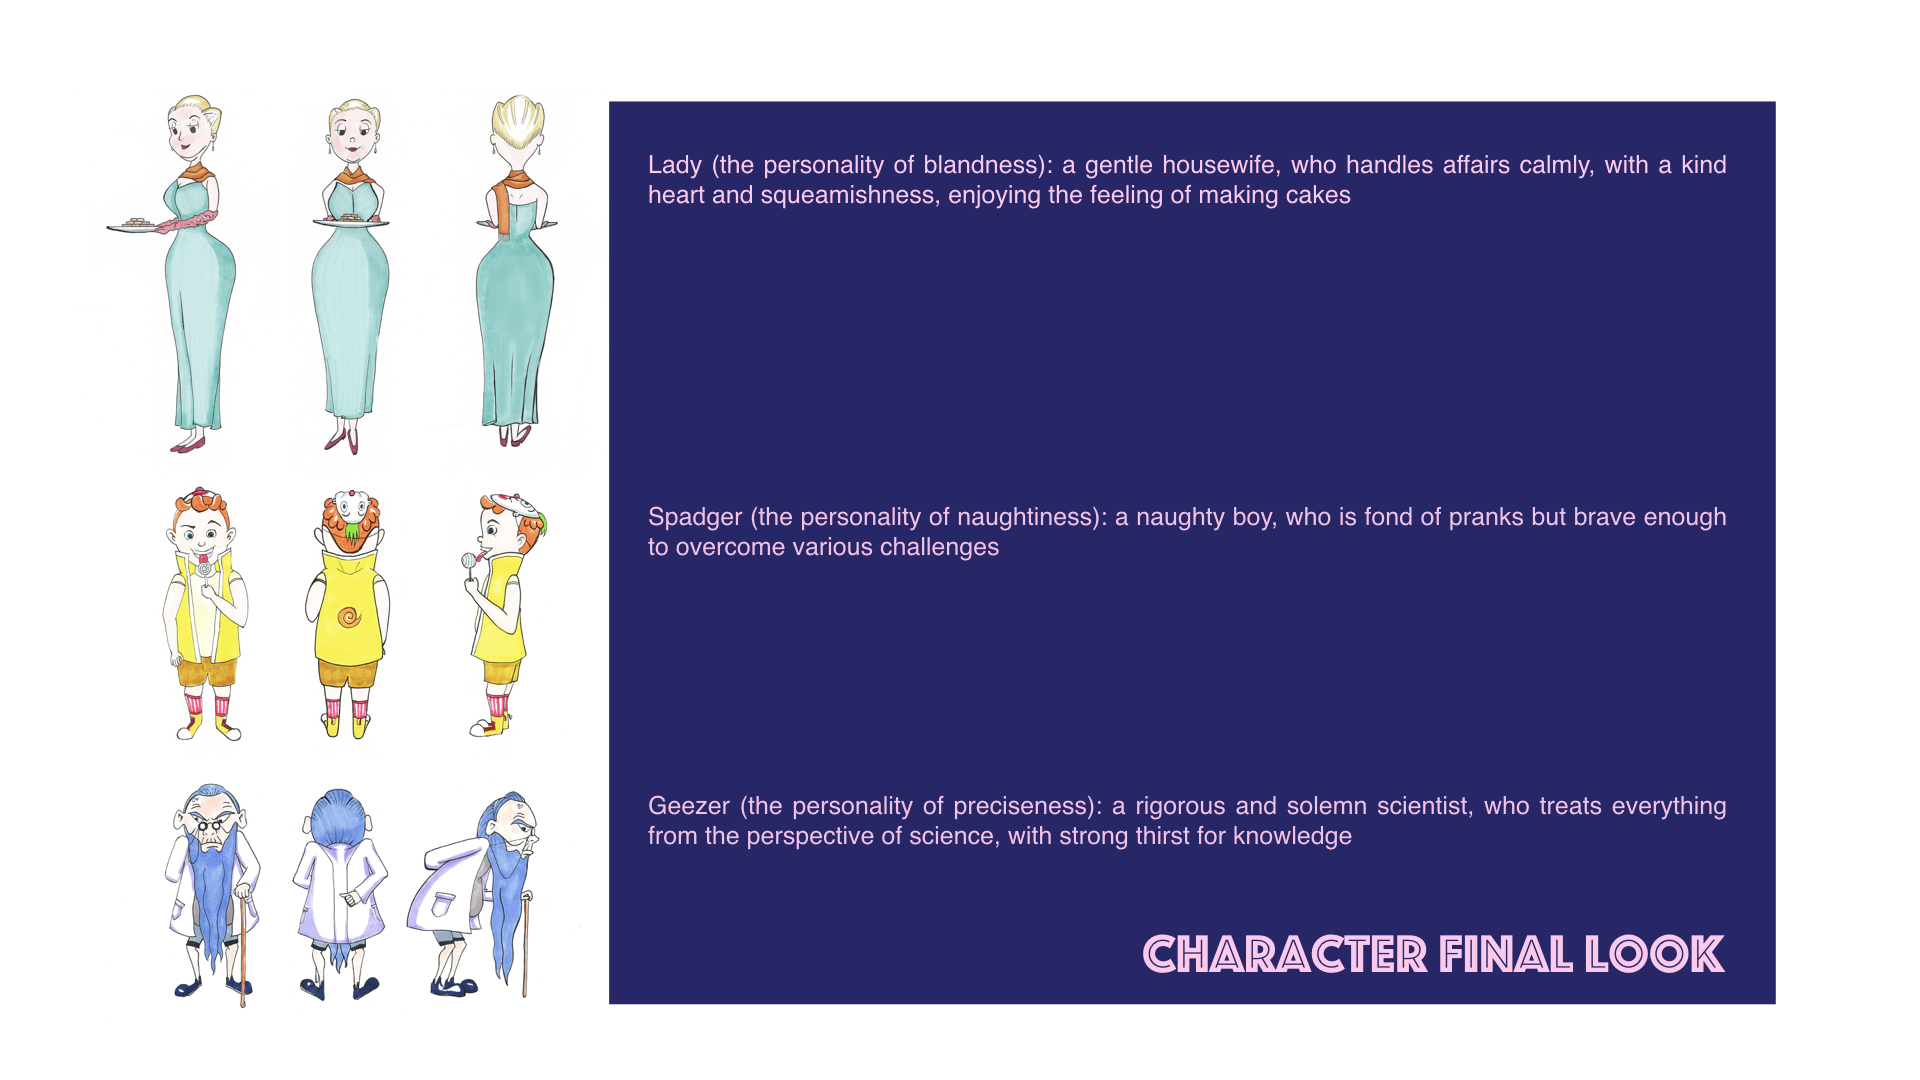
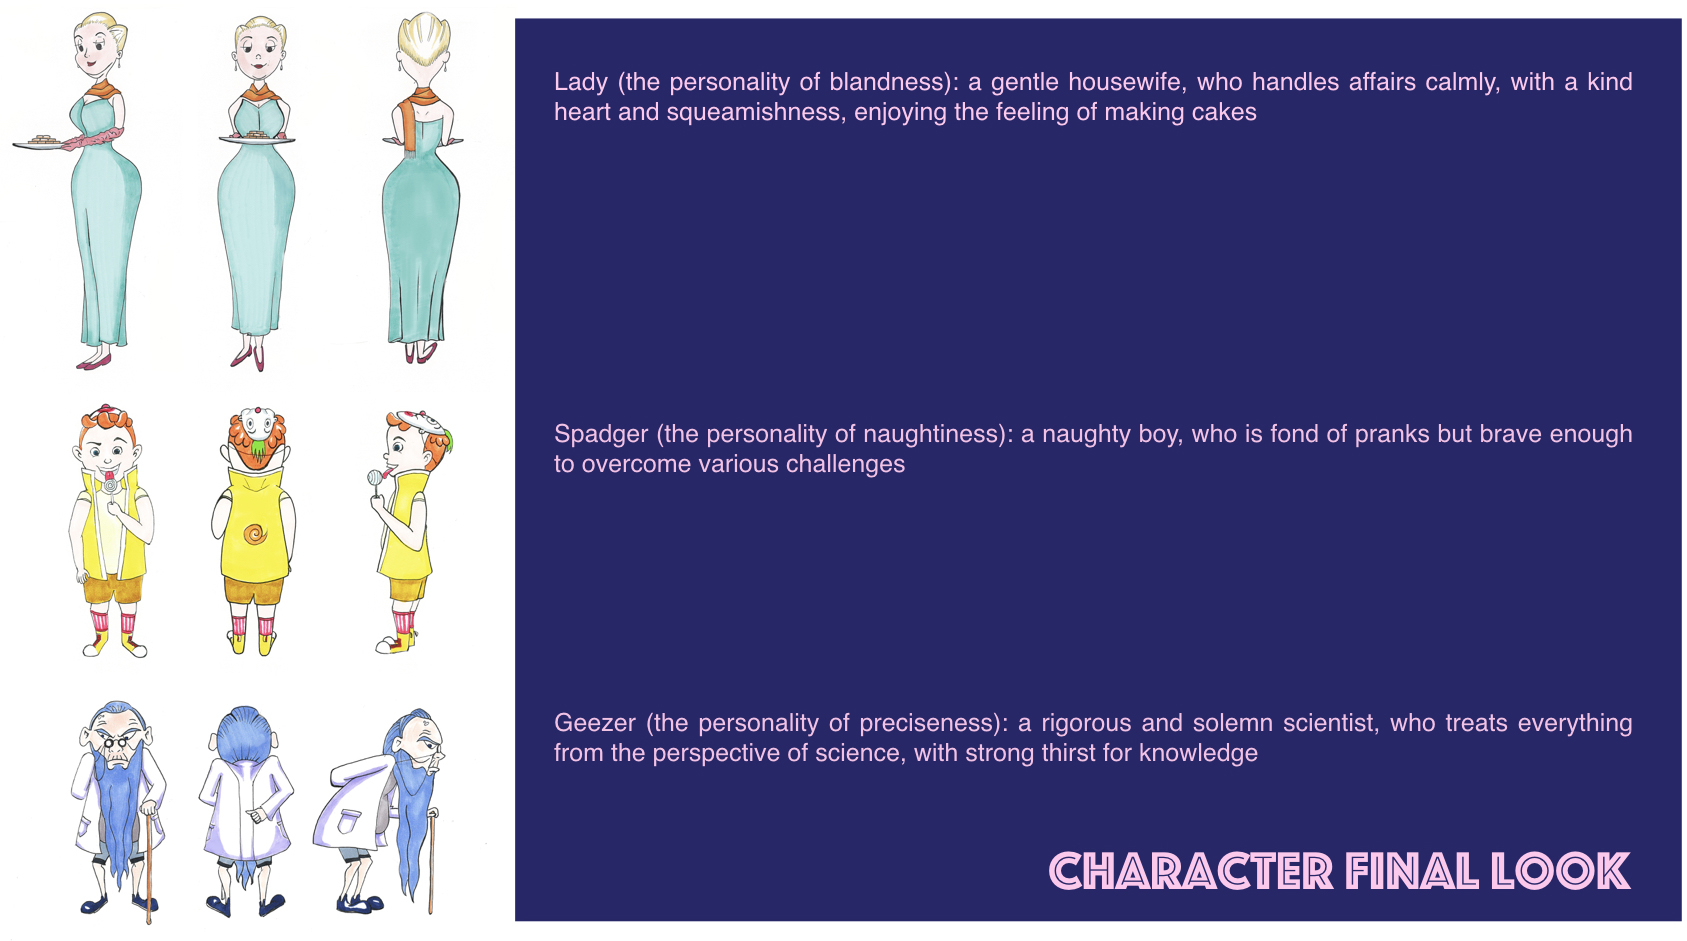
Add key words and subtitle. Change margin and spacing

diff --git a/home/setforstrangers.html b/home/setforstrangers.html
@@ -33,6 +33,7 @@
         <div id="main">
             <div class="inner">
                 <h1>Set for Strangers in Times Square</h1>
+                <h2>KEY WORDS: &nbspVibe, Preference, Installation</h2>
                 <div class="row gtr-uniform">
                     <div class="col-6"><span class="image fit"><img src="images/setforstrangers/post1.png" alt="" /></span></div>
                     <div class="col-6"><span class="image fit"><img src="images/setforstrangers/post2.png" alt="" /></span></div>
@@ -43,10 +44,10 @@
                 <div class="col-12" style="text-align: center;">
                     <h1>Which one do you prefer?</h1>
                 </div>
-                <h2>Design Statement</h2>
-                <p>Why do people come to Times Square?<br> Do they prefer a crowded or an uncrowded Times Square space? <br>Through this project, we wish to understand the vibe people associate with Times Square. We plan to achieve that by collecting their preferences of visiting crowded versus uncrowded Times Square.</p>
+                <h2>DESIGN STATEMENT</h2>
+                <p>Why do people come to Times Square?<br> Do they prefer a crowded or an uncrowded Times Square space? <br>Through this project, we wish to understand the vibe people associate with Times Square. We plan to achieve that by collecting their preferences of visiting crowded versus uncrowded Times Square.</p><br>
                 <div class="row">
-                    <div class="col-6 col-12-medium"><h2>Team: (X<span style="font-weight: 500;"><sup>2</sup></span>)X Squared</h2>
+                    <div class="col-6 col-12-medium"><h2>TEAM: (X<span style="font-weight: 500;"><sup>2</sup></span>)X Squared</h2>
                         <ul>
                             <li>Ziyuan Wang</li>
                             <li>Akshansh Chaudhary</li>
@@ -54,25 +55,24 @@
                         </ul>
                     </div>
                     <div class="col-6 col-12-medium">
-                        <h2>Location</h2>
+                        <h2>LOCATION</h2>
                         <p>43rd and 7th, Times Square, New York, New York<br>
                             40°45'24.4"N 73°59'10.1"W</p>
                     </div>
                 </div>
-                <h2>Rules</h2>
+                <h2>RULES</h2>
                 <p>1. No text or instructions on the installation.<br>
-                    2. Observe whether the users interact with our installation the way we had expected them to.</p>
-                <h2>How</h2>
+                    2. Observe whether the users interact with our installation the way we had expected them to.</p><br>
+                <h2>HOW</h2>
                 <p>Preference collection through voting on posters which depicted the 2 scenarios of Times Square.</p>
                 <div class="row gtr-uniform">
                     <div class="col-8"><span class="image fit"><img src="images/setforstrangers/structure.png" alt="" /></span></div>
                 </div>
-                <h2>VISUAL Affordances</h2>
+                <h2>VISUAL AFFORDANCE</h2>
                 <ul>
                     <li>Stack of postcards giving the illustration which are placed so that they can be collected.</li>
                     <li>Difference in the two stack of cards.</li>
                     <li>Subconsciously people get influenced in the choices they make based on the way it has been perceived by others.</li>
-                    <li>Empty faces of people.</li>
                     <li>Blank spaces in sticker pamphlets.</li>
                     <li>Hand with the sticker on top of the installation, indicating that one had to take off the stickers and interact with them (vote for their preference).</li>
                     <li>Illustration made for the two disparate scenarios of a crowded and an uncrowded Times Square.</li>
@@ -88,7 +88,7 @@
                     <p>A draft of the sketches which would be used for the background of the standee and the postcard.
                     </p>
                 </div>
-                <h2>Location</h2>
+                <h2>PLACEMENT</h2>
                 <p>
                     <span class="image left"><img src="images/setforstrangers/set.png" alt="" /></span>
                     <ul>
@@ -99,21 +99,21 @@
                         </li>
                         </li>
                     </ul>
-                </p><br>
+                </p><br><br>
                 <h2>STRUCTURE/MODEL</h2>
                 <ul>
                     <li>We made the installation keeping in mind the height and convenience factors in tandem.</li>
                     <li>We kept the installation where the users were supposed to interact at eye level so that easy to interact with it. Be it grabbing the stickers to vote, taking time to look at the installation, we gave enough space for the users to rest their hands over it by making it as a podium style.</li>
                 </ul>
-                <h2>Working Process & Prototype</h2>
+                <h2>WORKING PROCESS & PROTOTYPE</h2>
                 <div class="box alt">
                     <div class="row gtr-uniform">
                         <div class="col-4"><span class="image fit"><img src="images/setforstrangers/process2.jpg" alt="" /></span></div>
                         <div class="col-4"><span class="image fit"><img src="images/setforstrangers/process1.jpg" alt="" /></span></div>
                         <div class="col-4"><span class="image fit"><img src="images/setforstrangers/final.jpg" alt="" /></span></div>
                     </div>
-                </div>
-                <h2>Final Test & Result</h2>
+                </div><br>
+                <h2>FINAL TEST & CONCLUSION</h2>
                 <div class="box alt">
                     <div class="row gtr-uniform">
                         <div class="col-6">

diff --git a/home/illustration.html b/home/illustration.html
@@ -40,7 +40,7 @@
                     <div class="col-4"></div>
                 </div>
                 <div style="text-align: center; font-weight: 500;">
-                    <i>Portrait.&nbsp&nbsp&nbsp12/2018</i><br><br>
+                    <p>Portrait.&nbsp&nbsp&nbsp12/2018</><br><br>
                 </div>
                 <div class="row gtr-uniform">
                     <div class="col-4">
@@ -53,21 +53,21 @@
                     </div>
                 </div>
                 <div style="text-align: center; font-weight: 500;">
-                    <i>Sketches.&nbsp&nbsp&nbsp11/2018</i><br><br>
+                    <p>Sketches.&nbsp&nbsp&nbsp11/2018</p><br><br>
                 </div>
                 <div class="row gtr-uniform">
                     <div class="col-12">
                         <span class="image fit"><img src="illustration/s3.jpg" alt="" /></span></div>
                 </div>
                 <div style="text-align: center; font-weight: 500;">
-                    <i>Life drawing.&nbsp&nbsp&nbsp 10/2017</i><br><br>
+                    <p>Life drawing.&nbsp&nbsp&nbsp 10/2017</p><br><br>
                 </div>
                 <div class="row gtr-uniform">
                     <div class="col-12">
                         <span class="image fit"><img src="illustration/s2.jpg" alt="" /></span></div>
                 </div>
                 <div style="text-align: center; font-weight: 500;">
-                    <i>Life drawing.&nbsp&nbsp&nbsp 07/2017</i><br><br></div>
+                    <p>Life drawing.&nbsp&nbsp&nbsp 07/2017</p><br><br></div>
                 <div class="row gtr-uniform">
                     <div class="col-4">
                         <span class="image fit"><img src="illustration/c1.jpg" alt="" /></span></div>
@@ -79,7 +79,7 @@
                     </div>
                 </div>
                 <div class="col-12" style="text-align: center; font-weight: 500;">
-                    <i>Collage.&nbsp&nbsp&nbsp 05/2017</i><br><br>
+                    <p>Collage.&nbsp&nbsp&nbsp 05/2017</p><br><br>
                 </div>
                 <div class="row gtr-uniform">
                     <div class="col-6">
@@ -89,7 +89,7 @@
                     </div>
                 </div>
                 <div class="col-12" style="text-align: center; font-weight: 500;">
-                    <i>Sketches.&nbsp&nbsp&nbsp 04/2017</i><br><br>
+                    <p>Sketches.&nbsp&nbsp&nbsp 04/2017</p><br><br>
                 </div>
                 <div class="row gtr-uniform">
                     <div class="col-6">
@@ -99,14 +99,14 @@
                     </div>
                 </div>
                 <div class="col-12" style="text-align: center; font-weight: 500;">
-                    <i>Sketches.&nbsp&nbsp&nbsp 03/2017</i><br><br>
+                    <p>Sketches.&nbsp&nbsp&nbsp 03/2017</p><br><br>
                 </div>
                 <div class="row gtr-uniform">
                     <div class="col-12">
                         <span class="image fit"><img src="illustration/s1.jpg" alt="" /></span></div>
                 </div>
                 <div class="col-12" style="text-align: center; font-weight: 500;">
-                    <i>Life drawing.&nbsp&nbsp&nbsp 08/2013</i>
+                    <p>Life drawing.&nbsp&nbsp&nbsp 08/2013</p>
                 </div>
             </div>
         </div>

diff --git a/home/panda.html b/home/panda.html
@@ -35,6 +35,7 @@
                 <div class="row gtr-uniform">
                     <div class="col-12">
                         <div class="col-1"><span class="image left"><img src="images/panda/paw.png" alt="" /></span></div><h1>Eden of Pandas: 2D Narrative Game</h1>
+                        <h2>KEY WORDS: &nbspSex, Shame, Instincts</h2>
                     </div>
                     <div class="col-12">
                         <iframe class="centervedio" style="width: 900px; height: 600px;" src="https://www.youtube.com/embed/jFZECLET7F4?autoplay=0">
@@ -47,11 +48,11 @@
                 </div>
                 <h2>DESIGN STATEMENT</h2>
                 <p>Most people have irrational shame or exclusive attitudes toward sex, even put it on the opposite side of morality. So I want to provide people with an experience to think about their attitudes towards sexual shame and their bodies. I use pandas to juxtapose the shared instincts and urges of humans and animals, and to reflect the general lack of formal sex education in eastern countries, especially China. <br><br>
-                    This game and the animation are designed and created by Ziyuan Wang in Photoshop, After Effect and Unity3D.</p>
-                <p><a href="https://drive.google.com/open?id=1lDah6h0S5Nl_CWurnBvoumGwDISE92UQ" class="button">DOWNLOAD FOR MAC</a></p>
+                    This game and the animation are designed and created by Ziyuan Wang in Photoshop, After Effect and Unity3D.</p><br>
+                <p><a href="https://drive.google.com/open?id=1lDah6h0S5Nl_CWurnBvoumGwDISE92UQ" class="button">DOWNLOAD FOR MAC</a></p><br>
                 <p>You can also comment or donate on its<a href="https://ryanwzy.itch.io/eden-of-pandas" style="color: black"> itch.io</a> page.</p><br>
                 <h2>PRECEDENTS</h2>
-                <p>There are many interesting games and exhibitions related to body and sexuality. </p>
+                <p>There are many interesting games and exhibitions related to body and sexuality. </p><br>
                 <div class="row gtr-uniform">
                     <div class="col-4">
                         <span class="image fit"><a href="http://molleindustria.org/en/orgasm-simulator/"><img src="images/panda/p1.png" alt="" /></a></span></div>
@@ -70,7 +71,7 @@
                     <li><i>Luxuria Superbia</i> is a musical game from where designs explode from the interaction of fingers as you glide through beautiful tunnels, which simulated a vagina. Both these two games make me realize the use of symbolization in games could be so creative and dynamic.</li>
                     <li>Also, I got inspiration for art style from the 2D game<i> Plug & Play</i>, which is simple but thought-provoking.</li>
                 </ul>
-                <p>Thus, I planned to use some symbolic graphics to simulate different elements in the process of producing shame and sex and use sound effects to match and strengthen the sex and shame.</p>
+                <p>Thus, I planned to use some symbolic graphics to simulate different elements in the process of producing shame and sex and use sound effects to match and strengthen the sex and shame.</p><br>
                 <h2>STORYBOARD</h2>
                 <div class="row gtr-uniform">
                     <div class="col-12">

diff --git a/home/flee.html b/home/flee.html
@@ -33,16 +33,19 @@
         <div id="main">
             <div class="inner">
                 <h1>Flee: Animation Reel</h1>
+                <h2>KEY WORDS: &nbspConsciousness, Escape, Self-protection</h2><br>
                 <iframe class="centervedio" src="https://www.youtube.com/embed/ZKMNo1nA40c?autoplay=0">
                 </iframe>
                 <!-- <span class="image main"><img src="images/pic13.jpg" alt="" /></span> -->
-                <p>This is a short film describing stream-of-consciousness.</p>
-                <p>The story starts from reading. Then I had a series of deuterogenic associations about book contents during the process of page turning, and then I escaped from the world in the book with my consciousness personified into various animals’ characters, eager to escape from the human beings’ so-called civilized world. </p>
-                <p>Human beings have turned the world upside down during the process of evolution, and each individual feels at a loss due to the fight for fame and wealth, progress of science and technology, and threat of military industry.At last, with my thoughts back to the reality, I opened the door back home, a land far away from worldly crowd. (2017)</p>
+                
+                <h2>DESIGN STATEMENT</h2>
+                <p>This is a short film describing stream of consciousness.</p><br>
+                <p>The story starts from reading. Then I had a series of deuterogenic associations about book contents during the process of page turning, and then I escaped from the world in the book with my consciousness personified into various animals’ characters, eager to escape from the human beings’ so-called civilized world. </p><br>
+                <p>Human beings have turned the world upside down during the process of evolution, and each individual feels at a loss due to the fight for fame and wealth, progress of science and technology, and threat of military industry. At last, with my thoughts back to the reality, I opened the door back home, a land far away from worldly crowd. (2017)</p><br>
                 <h2>PROCESS</h2>
                 <span class="main image">
-                  <img src="images/flee-1.jpeg" alt="" />
-                  <img src="images/flee-2.jpeg" alt="" />
+                  <img src="images/flee-1.jpeg" alt="" /><br>
+                  <img src="images/flee-2.jpeg" alt="" /><br>
                   <img src="images/flee-3.jpeg" alt="" />
                </span>
             </div>

diff --git a/home/collapse.html b/home/collapse.html
@@ -33,17 +33,21 @@
         <div id="main">
             <div class="inner">
                 <h1>Collapse: 2D animation</h1>
+                <h2>KEY WORDS: &nbspMind, Fear, Self-protection</h2><br>
                 <iframe class="centervedio" src="https://www.youtube.com/embed/wZ9LEubEOUM?autoplay=0">
                 </iframe>
                 <!-- <span class="image main"><img src="images/pic13.jpg" alt="" /></span> -->
-                <p>This is an animation short film about a series of radical thinking due to lack of sense of security.</p>
-                <p>The story starts from a dream in a human brain. After experiencing a series of thrilling adventures, the people felt more and more insecure, helpless and desperate in his mind.Finally, his sense of survival was stimulated and he became cruel. He finally lost his mind and collapsed, meanwhile the brain broke down. </p>
+                <h2>DESIGN STATEMENT</h2>
+                <p>This is an animation short film about a series of radical thinking due to lack of sense of security.</p><br>
+                <p>The story starts from a dream in a human brain. After experiencing a series of thrilling adventures, the people felt more and more insecure, helpless and desperate in his mind.Finally, his sense of survival was stimulated and he became cruel. He finally lost his mind and collapsed, meanwhile the brain broke down. </p><br>
                 <p></p>
                 <p>The short film mainly reflected that people might run to extremes in helplessness and desperation. So we should guide and help them in our life and prevent their mind from deteriorating. (2017) </p>
-                <h2>PROCESS</h2>
+                <br>
+                <h2>RESEARCH & PROCESS</h2>
                 <span class="main image">
                   <img src="images/collapse-1.jpeg" alt="" />
                   <img src="images/collapse-2.jpeg" alt="" />
+                  <br>
                   <img src="images/collapse-3.jpeg" alt="" />
                </span>
             </div>

diff --git a/home/mutualism.html b/home/mutualism.html
@@ -33,10 +33,12 @@
         <div id="main">
             <div class="inner">
                 <h1>Mutualism: Character Design</h1>
+                <h2>KEY WORDS: &nbspSchizophrenia, Personality, Theme</h2>
                 <span class="main image">
                   <img src="images/mutualism.jpg" alt="" />
                 </span>
-                <p>The theme of this project is about schizobulia, with the inspiration from the movie of Split and American drama of Legion.<br> The five figures represent five personalities splitting from one person, with a spadger revealing the personality of naughtiness and innocence, an old scientist showing the personality of preciseness and pragmatism, a middle-aged male worker expressing the personality of recreance and timidity, a housewife reflecting the personality of blandness and goodness, and a nefarious monster representing the personality of greed and distortion. (2017)
+                <h2>DESIGN STATEMENT</h2>
+                <p>The theme of this project is about  schizophrenia, with the inspiration from the movie <i>Split</i> and an American TV series called <i>Legion</i>.<br><br> The five figures represent five personalities splitting from one person, with a spadger revealing the personality of naughtiness and innocence, an old scientist showing the personality of preciseness and pragmatism, a middle-aged male worker expressing the personality of recreance and timidity, a housewife reflecting the personality of blandness and goodness, and a nefarious monster representing the personality of greed and distortion. (2017)
                 </p>
                 
                 <span class="fit image">

diff --git a/home/assets/css/main.css b/home/assets/css/main.css
@@ -283,14 +283,14 @@ i {
 }
 
 p {
-    margin: 0 0 2em 0;
+    margin: 0 0 0em 0;
 }
 
 h1 {
     font-size: 2.75em;
     font-weight: 700;
     line-height: 1.3;
-    margin: 0 0 1em 0;
+    margin: 0 0 0.3em 0;
     letter-spacing: 0.035em;    
 }
 
@@ -302,7 +302,7 @@ h1 a {
 
     h1 {
         font-size: 2em;
-        margin: 0 0 1em 0;
+        margin: 0 0 0.5em 0;
     }
 
 }
@@ -322,7 +322,7 @@ h5,
 h6 {
     font-weight: 900;
     line-height: 1.5;
-    margin: 0 0 1em 0;
+    margin: 0 0 0.5em 0;
     /*text-transform: uppercase;*/
     letter-spacing: 0.1em;
 }
@@ -395,7 +395,7 @@ sup {
 blockquote {
     border-left: solid 4px #c9c9c9;
     font-style: italic;
-    margin: 0 0 2em 0;
+    margin: 0 0 0.5em 0;
     padding: 0.5em 0 0.5em 2em;
 }
 
@@ -413,7 +413,7 @@ pre {
     -webkit-overflow-scrolling: touch;
     font-family: "Courier New", monospace;
     font-size: 0.9em;
-    margin: 0 0 2em 0;
+    margin: 0 0 0.5em 0;
 }
 
 pre code {
@@ -2468,7 +2468,7 @@ input[type="radio"]+label:before {
 
 .image.main {
     display: block;
-    margin: 0 0 3em 0;
+    margin: 0 0 1em 0;
     width: 100%;
 }
 
@@ -3403,7 +3403,7 @@ body.is-menu-visible #menu .close {
 /* Main */
 
 #main {
-    padding: 0em 0 6em 0;
+    padding: 0em 0 2em 0;
 }
 
 @media screen and (max-width: 736px) {

diff --git a/home/theloss.html b/home/theloss.html
@@ -33,11 +33,12 @@
         <div id="main">
             <div class="inner">
                 <h1>The Loss: Storyboard</h1>
-                
+                <h2>KEY WORDS: &nbspEmotion, Career, Value</h2><br>
                 <span class="fit image">
                   <img src="images/loss-1.jpeg" alt="" />
-                  <img src="images/loss-2.jpeg" alt="" />
-                  <img src="images/loss-3.jpeg" alt="" />
+                  <br>
+                  <img src="images/loss-2.jpeg" alt="" /><br>
+                  <img src="images/loss-3.jpeg" alt="" /><br>
                   <img src="images/loss-4.jpeg" alt="" />
                 </span>
             </div>
